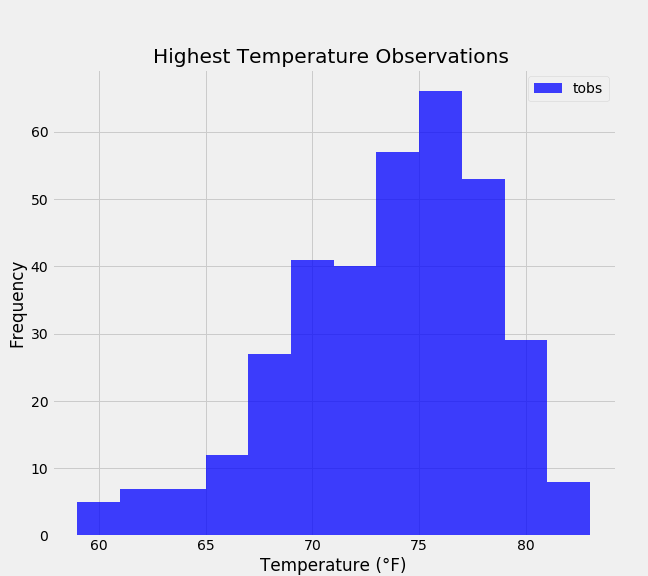
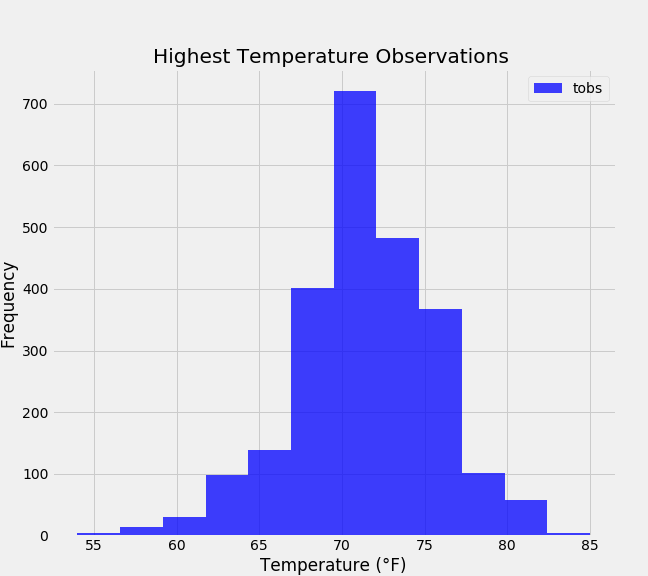
update histogram

diff --git a/app.py b/app.py
@@ -19,8 +19,8 @@ Base = automap_base()
 Base.prepare(engine, reflect=True)
 
 # Save reference to the table
-Measurement = Base.classes.measurement
-Station = Base.classes.station
+measurement = Base.classes.measurement
+station = Base.classes.station
 
 #create_session
 session = Session(engine)
@@ -100,7 +100,7 @@ session.close()
 @app.route("/api/v1.0/stations")
 def stations():
 temp_obs = session.query(measurement.tobs).\
-    filter(measurement.station == station_id).filter(measurement.date >= query_date).all()
+    filter(measurement.station == station_id).filter(measurement.date <= query_date).all()
 
 temp_obs_df = pd.DataFrame(temp_obs, columns=['tobs'])
 temp_obs_df.head()
